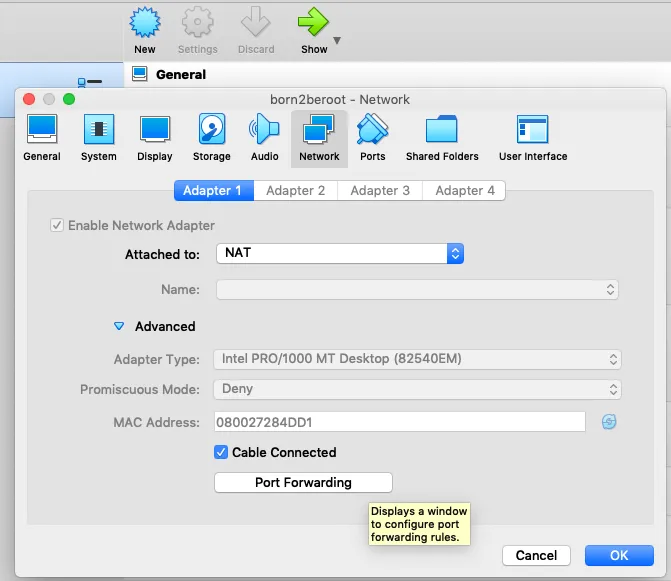
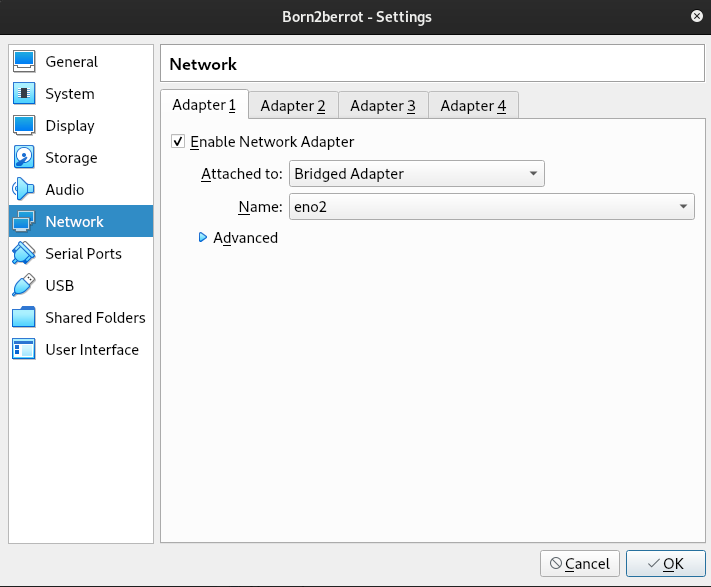
config files

diff --git a/dcs/201_config.md b/dcs/201_config.md
@@ -53,7 +53,7 @@
 - Verificar se foi instalado correctamente:
 `sudo service ssh status` ou `systemctl status ssh.service`
 - Ver endereco IP da maquina virtual:
-`hostname -I`  (`10.0.2.15`)
+`hostname -I` 
 ### 2. Config 
 *Entrar no utilizador root `su`, ou colocar `sudo` no inicio do cmd*
 
@@ -85,7 +85,10 @@
 **Editar ficheiro *sudo_config:*** `nano /etc/sudoers.d/sudo_config`
 - Adicionar ao ficheiro:
 ```bash
-Defaults    passwd_tries=3
+Defaults    passwd_tr
+
+
+ies=3
 Defaults    badpass_message="Mensaje de error personalizado"
 Defaults    logfile="/var/log/sudo/sudo_config"
 Defaults    log_input, log_output
@@ -144,21 +147,17 @@ Defaults  secure_path="/usr/local/sbin:/usr/local/bin:/usr/sbin:/usr/bin:/sbin:/
 
 *Adicionar regra de encaminhamento para o VirtualBox*
 
-1. Vá para VirtualBox-> Escolha a VM->Selecione Configurações
-2. Escolha “Rede”-> “Adaptador 1"->”Avançado”->”Encaminhamento de porta”
+1. Vá para VirtualBox-> Escolha a VM->Settings
+2. Escolha “Network”-> “Adapter 1"->”Attached to:”->”Bridged Adapter”->"OK"
 ![image6.png](./image6.png)
-3. Insira os valores conforme mostrado:
-![image7.png](./image7.png)
-4. Abra a VM e reinicie o servidor SSH:
+3. Abra a VM e reinicie o servidor SSH:
 `sudo systemctl restart ssh`
-5. Verifique o status do ssh:
+4. Verifique o status do ssh:
 `sudo service sshd status`
-6. Do lado do host do iTerm2 ou Terminal, digite como mostrado abaixo:
-`ssh username@127.0.0.1 -p 4242` ou `ssh username@localhost -p 4242`
-7. Encerre a conexão:
+5. Pegue o IP:
+`hostname -I`
+7. Do lado do host do iTerm2 ou Terminal, digite como mostrado abaixo:
+`ssh username@ip-address -p 4242`
+6. Encerre a conexão:
 `exit` ou `logout`
-
-### Links
-- [SSH](https://www.youtube.com/watch?v=GO57OOnBhQ0)
-- [Tutorial](https://baigal.medium.com/born2beroot-e6e26dfb50ac)
 

diff --git a/dcs/200_vm_install.md b/dcs/200_vm_install.md
@@ -46,7 +46,7 @@
 - New parttion size: **500m** *(sda1)*
 - Selecione **Primary** (Pois sera onde o sistema sera instalado)
 - Selecione **Beginnig** *(Queremos que a nova particao seja criada no inicio do espaco disponivel)*
-- Selecione **Mount point:      /**
+- Selecione **Mount point:**
 - Selecione **/boot - static files of the boot loader**
 - Selecione **Done setting up partition** *(Pois concluimos a config da particao atual)*
 
@@ -55,7 +55,7 @@
 - Selecione **Create a new partition**
 - New parttion size: **max** *(Para o tamanho maximo)*
 - Selecione **Logical**
-- Selecione **Mount point:      /**
+- Selecione **Mount point:**
 - Selecione **Do not Mount it**
 - Selecione **Done setting up partition** *(Pois concluimos a config da particao atual)*
 
@@ -90,7 +90,7 @@
 - How to use this partition: **Ext4 ...** *(Amplamente utilizado em Linux)*
   - No caso do **swap** selecione **swap are** 
 - Partition settings: **Mount point**
-  - No caso do  **var--log** selecione **manual** introduza **/var/log** 
+  - No caso do  **var-log** selecione **manual** introduza **/var/log** 
 - Mount point for this partition: **/home - ...** *(O mesmo nome da particao)*
 - Partition settings: **Done setting up the partition**
 - *Repita os 6 ultimos passos mudando o nome e tamanho conforme a imagem acima*

diff --git a/dcs/202_script.md b/dcs/202_script.md
@@ -297,3 +297,5 @@ Esse código executa uma série de comandos em conjunto para contar o número de
 Em resumo, o código completo conta o número de vezes que o comando `sudo` foi executado no sistema, utilizando o registro do `journalctl`. Ele filtra as entradas do `journalctl` para exibir apenas as relacionadas ao `sudo`, filtra novamente para obter apenas as linhas que contêm informações sobre a execução do comando (`COMMAND`), e, finalmente, conta o número de linhas resultantes com o `wc -l`. O resultado é o número de vezes que o comando `sudo` foi executado.
 
 O `journalctl` é um utilitário de linha de comando no Linux usado para acessar e visualizar os registros do sistema coletados pelo sistema de log do systemd, conhecido como "journald". Ele permite ler e analisar os logs gerados pelo sistema operacional, incluindo mensagens do kernel, registros de inicialização, mensagens de serviços e aplicativos em execução, entre outros.
+
+# Crontab
